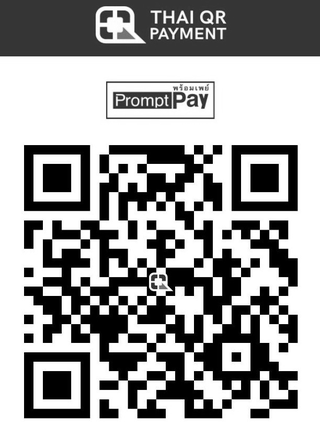
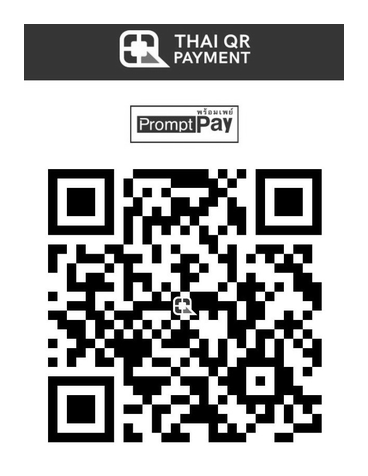
feat(ui): modernize PC interface and display rounded donate QR image

diff --git a/clipora/ui.py b/clipora/ui.py
@@ -57,15 +57,15 @@ from .ytdlp_update import (
 )
 
 
-BG = '#090d15'
-CARD = '#141a26'
-FIELD = '#0d1320'
-BORDER = '#293348'
-TEXT = '#f7f8fc'
-MUTED = '#96a3b8'
-ACCENT = '#7c5cff'
-ACCENT_HOVER = '#6c4df0'
-DANGER = '#e35d6a'
+BG = '#0c0f16'
+CARD = '#151a24'
+FIELD = '#0e1220'
+BORDER = '#2a3145'
+TEXT = '#f3f5fb'
+MUTED = '#9aa6bd'
+ACCENT = '#8b5cf6'
+ACCENT_HOVER = '#7c4df0'
+DANGER = '#ef5350'
 
 AUDIO_FORMAT_LABELS = ('MP3', 'M4A', 'WAV', 'FLAC', 'OPUS')
 AUDIO_FORMAT_VALUES = {'MP3': 'mp3', 'M4A': 'm4a', 'WAV': 'wav', 'FLAC': 'flac', 'OPUS': 'opus'}
@@ -97,6 +97,31 @@ def destination_path(value: str) -> Path:
     return Path(text)
 
 
+def fit_photo_image(image: tk.PhotoImage, max_width: int, max_height: int) -> tk.PhotoImage:
+    """Scale a PhotoImage to fit inside a bounding box (stdlib only)."""
+    width, height = image.width(), image.height()
+    if width <= max_width and height <= max_height:
+        return image
+    best: tuple[int, int, int, int] | None = None
+    for zoom in range(1, 9):
+        for subsample in range(1, 9):
+            scaled_width = width * zoom // subsample
+            scaled_height = height * zoom // subsample
+            if scaled_width <= max_width and scaled_height <= max_height:
+                if best is None or (scaled_width * scaled_height) > (best[0] * best[1]):
+                    best = (scaled_width, scaled_height, zoom, subsample)
+    if best is None:
+        return image.subsample(max(1, width // max_width), max(1, height // max_height))
+    _scaled_width, _scaled_height, zoom, subsample = best
+    if zoom > 1 and subsample > 1:
+        return image.zoom(zoom).subsample(subsample)
+    if zoom > 1:
+        return image.zoom(zoom)
+    if subsample > 1:
+        return image.subsample(subsample)
+    return image
+
+
 def source_summary(path_value: str) -> str:
     if not path_value.strip():
         return 'ยังไม่ได้เลือกไฟล์'
@@ -113,8 +138,8 @@ class CliporaApp(tk.Tk):
     def __init__(self) -> None:
         super().__init__()
         self.title('Clipora')
-        self.geometry('900x700')
-        self.minsize(660, 480)
+        self.geometry('940x720')
+        self.minsize(680, 480)
         self.configure(bg=BG)
         self._first_run_setup = bool(missing_required_tools())
         if self._first_run_setup:
@@ -162,14 +187,14 @@ class CliporaApp(tk.Tk):
         self.protocol('WM_DELETE_WINDOW', self._on_close)
 
     def _create_icon(self) -> tk.PhotoImage:
-        image = tk.PhotoImage(width=32, height=32)
-        image.put(BG, to=(0, 0, 32, 32))
-        for y in range(4, 28):
-            inset = 2 if y in (4, 5, 26, 27) else 0
-            image.put(ACCENT, to=(4 + inset, y, 28 - inset, y + 1))
-        for y in range(10, 23):
-            width = min(y - 9, 23 - y)
-            image.put(TEXT, to=(12, y, 12 + width, y + 1))
+        image = tk.PhotoImage(width=36, height=36)
+        image.put(BG, to=(0, 0, 36, 36))
+        for y in range(5, 31):
+            inset = 2 if y in (5, 6, 29, 30) else 0
+            image.put(ACCENT, to=(5 + inset, y, 31 - inset, y + 1))
+        for y in range(11, 25):
+            width = min(y - 10, 25 - y)
+            image.put(TEXT, to=(14, y, 14 + width, y + 1))
         return image
 
     def _build(self) -> None:
@@ -182,50 +207,50 @@ class CliporaApp(tk.Tk):
 
         style.configure('TFrame', background=BG)
         style.configure('Card.TFrame', background=CARD)
-        style.configure('Action.TFrame', background='#111827', borderwidth=1, relief='solid')
+        style.configure('Action.TFrame', background='#10141f', borderwidth=1, relief='solid')
         style.configure('TLabel', background=BG, foreground=TEXT, font=(self.ui_font, 10))
         style.configure('Card.TLabel', background=CARD, foreground=TEXT, font=(self.ui_font, 10))
-        style.configure('Heading.TLabel', background=BG, foreground=TEXT, font=('Segoe UI Semibold', 28))
+        style.configure('Heading.TLabel', background=BG, foreground=TEXT, font=('Segoe UI Semibold', 26))
         style.configure('Muted.TLabel', background=BG, foreground=MUTED, font=(self.ui_font, 10))
         style.configure('CardMuted.TLabel', background=CARD, foreground=MUTED, font=(self.ui_font, 9))
         style.configure('Section.TLabel', background=CARD, foreground=TEXT, font=(self.ui_font, 10, 'bold'))
         style.configure(
             'Step.TLabel',
             background=CARD,
-            foreground='#b8aaff',
+            foreground='#c4b5fd',
             font=(self.ui_font, 10, 'bold'),
         )
         style.configure(
             'Pill.TLabel',
-            background='#1d1838',
-            foreground='#c8bcff',
+            background='#1e1b33',
+            foreground='#c4b5fd',
             font=(self.ui_font, 8, 'bold'),
             padding=(10, 5),
         )
         style.configure(
             'Header.TButton',
-            background='#1d1838',
-            foreground='#c8bcff',
-            bordercolor='#302758',
-            lightcolor='#302758',
-            darkcolor='#302758',
+            background='#1a2030',
+            foreground='#c8cfe0',
+            bordercolor=BORDER,
+            lightcolor=BORDER,
+            darkcolor=BORDER,
             font=(self.ui_font, 8, 'bold'),
-            padding=(10, 5),
+            padding=(12, 6),
         )
         style.map(
             'Header.TButton',
-            background=[('active', '#2a2250')],
+            background=[('active', '#242c42')],
             foreground=[('active', TEXT)],
         )
         style.configure(
             'Action.TLabel',
-            background='#111827',
+            background='#10141f',
             foreground=TEXT,
             font=(self.ui_font, 10, 'bold'),
         )
         style.configure(
             'ActionMuted.TLabel',
-            background='#111827',
+            background='#10141f',
             foreground=MUTED,
             font=(self.ui_font, 9),
         )
@@ -254,17 +279,17 @@ class CliporaApp(tk.Tk):
         )
         style.configure(
             'Secondary.TButton',
-            background='#232c3b',
+            background='#1c2434',
             foreground=TEXT,
-            bordercolor=BORDER,
-            lightcolor=BORDER,
-            darkcolor=BORDER,
+            bordercolor='#313a52',
+            lightcolor='#313a52',
+            darkcolor='#313a52',
             font=(self.ui_font, 10, 'bold'),
             padding=(14, 9),
         )
         style.map(
             'Secondary.TButton',
-            background=[('active', '#303b4f'), ('disabled', CARD)],
+            background=[('active', '#28324a'), ('disabled', CARD)],
             foreground=[('disabled', '#626d7f')],
             bordercolor=[('focus', ACCENT)],
         )
@@ -335,7 +360,7 @@ class CliporaApp(tk.Tk):
         )
         style.map(
             'Segment.TRadiobutton',
-            background=[('selected', ACCENT), ('active', '#222b3c'), ('disabled', CARD)],
+            background=[('selected', ACCENT), ('active', '#202a3e'), ('disabled', CARD)],
             foreground=[('selected', TEXT), ('active', TEXT), ('disabled', '#626d7f')],
         )
         style.configure(
@@ -355,12 +380,12 @@ class CliporaApp(tk.Tk):
         style.configure(
             'Dark.TCombobox',
             fieldbackground=FIELD,
-            background='#232c3b',
+            background='#1c2434',
             foreground=TEXT,
             arrowcolor=TEXT,
-            bordercolor=BORDER,
-            lightcolor=BORDER,
-            darkcolor=BORDER,
+            bordercolor='#313a52',
+            lightcolor='#313a52',
+            darkcolor='#313a52',
             padding=(10, 7),
         )
         style.map(
@@ -373,8 +398,8 @@ class CliporaApp(tk.Tk):
         style.configure(
             'Clipora.Horizontal.TProgressbar',
             background=ACCENT,
-            troughcolor='#202838',
-            bordercolor='#202838',
+            troughcolor='#1d2434',
+            bordercolor='#1d2434',
             lightcolor=ACCENT,
             darkcolor=ACCENT,
             thickness=11,
@@ -396,13 +421,6 @@ class CliporaApp(tk.Tk):
             text='แปลงวิดีโอ 360p–4K, แยกเสียง และ ProRes สำหรับ After Effects — บนเครื่องของคุณ',
             style='Muted.TLabel',
         ).grid(row=1, column=1, sticky='w')
-        ttk.Label(header, text='สร้างโดย ertyu.dev', style='Pill.TLabel').grid(
-            row=0,
-            column=2,
-            rowspan=2,
-            padx=(0, 10),
-            sticky='e',
-        )
         ttk.Button(
             header,
             text='เครื่องมือ',
@@ -410,7 +428,7 @@ class CliporaApp(tk.Tk):
             command=lambda: self._open_tool_setup(repair_mode=True),
         ).grid(
             row=0,
-            column=3,
+            column=2,
             rowspan=2,
             sticky='e',
         )
@@ -421,7 +439,7 @@ class CliporaApp(tk.Tk):
             command=lambda: self._check_ytdlp_update(auto=False),
         ).grid(
             row=0,
-            column=4,
+            column=3,
             rowspan=2,
             padx=(8, 0),
             sticky='e',
@@ -433,9 +451,16 @@ class CliporaApp(tk.Tk):
             command=self._open_donate_dialog,
         ).grid(
             row=0,
-            column=5,
+            column=4,
             rowspan=2,
             padx=(8, 0),
+            sticky='e',
+        )
+        ttk.Label(header, text='สร้างโดย ertyu.dev', style='Pill.TLabel').grid(
+            row=0,
+            column=5,
+            rowspan=2,
+            padx=(14, 0),
             sticky='e',
         )
 
@@ -1616,8 +1641,8 @@ class DonateDialog(tk.Toplevel):
     def __init__(self, parent: tk.Misc) -> None:
         super().__init__(parent)
         self.title('โดเนท')
-        self.geometry('440x680')
-        self.minsize(400, 560)
+        self.geometry('460x700')
+        self.minsize(420, 620)
         self.configure(bg=BG)
         self.transient(parent)
         self.resizable(True, True)
@@ -1634,19 +1659,23 @@ class DonateDialog(tk.Toplevel):
             shell,
             text=DONATE_BODY,
             style='Muted.TLabel',
-            wraplength=360,
+            wraplength=380,
         ).grid(row=1, column=0, sticky='w', pady=(2, 16))
 
         image_path = donate_image_path()
         if image_path is not None:
             try:
-                image = tk.PhotoImage(file=str(image_path))
+                raw = tk.PhotoImage(file=str(image_path))
+                image = fit_photo_image(raw, 360, 420)
             except tk.TclError:
                 image = None
             if image is not None:
-                label = ttk.Label(shell, image=image, style='Card.TLabel')
+                frame = ttk.Frame(shell, style='Card.TFrame')
+                frame.grid(row=2, column=0, sticky='ew', pady=(0, 16))
+                frame.columnconfigure(0, weight=1)
+                label = ttk.Label(frame, image=image, style='Card.TLabel')
                 label.image = image
-                label.grid(row=2, column=0, sticky='ew', pady=(0, 16))
+                label.grid(row=0, column=0)
             else:
                 ttk.Label(
                     shell,
@@ -1664,7 +1693,7 @@ class DonateDialog(tk.Toplevel):
             shell,
             text=DONATE_NOTE,
             style='CardMuted.TLabel',
-            wraplength=360,
+            wraplength=380,
         ).grid(row=3, column=0, sticky='w')
         ttk.Button(
             shell,

diff --git a/scripts/prepare_donate_qr.py b/scripts/prepare_donate_qr.py
@@ -1,0 +1,52 @@
+from __future__ import annotations
+
+import argparse
+import sys
+from pathlib import Path
+
+from PIL import Image, ImageDraw
+
+
+def prepare_donate_qr(source: Path, destination: Path, padding: int = 24, radius: int = 28) -> Path:
+    """Wrap a raw QR into a rounded white card with transparent corners.
+
+    Raw PromptPay QRs usually fill the whole canvas with no quiet zone, so we
+    add a white margin around the QR (needed for scanning) and round the outer
+    corners with a transparent mask so the QR blends into the app's dark card.
+    """
+    qr = Image.open(source).convert('L')
+    width, height = qr.size
+    padded = Image.new('L', (width + 2 * padding, height + 2 * padding), 255)
+    padded.paste(qr, (padding, padding))
+
+    size = padded.size
+    rgba = padded.convert('RGBA')
+    mask = Image.new('L', size, 0)
+    draw = ImageDraw.Draw(mask)
+    draw.rounded_rectangle([0, 0, size[0] - 1, size[1] - 1], radius=radius, fill=255)
+
+    output = Image.new('RGBA', size, (255, 255, 255, 0))
+    output.paste(rgba, (0, 0), mask)
+    output.save(destination)
+    return destination
+
+
+def main() -> int:
+    parser = argparse.ArgumentParser(description='Prepare donate QR as a rounded card PNG')
+    parser.add_argument('source', type=Path, help='raw QR image')
+    parser.add_argument('destination', type=Path, help='output PNG')
+    parser.add_argument('--padding', type=int, default=24, help='white margin around QR')
+    parser.add_argument('--radius', type=int, default=28, help='corner radius in pixels')
+    args = parser.parse_args()
+
+    if not args.source.is_file():
+        print(f'source not found: {args.source}', file=sys.stderr)
+        return 1
+    args.destination.parent.mkdir(parents=True, exist_ok=True)
+    output = prepare_donate_qr(args.source, args.destination, args.padding, args.radius)
+    print(f'wrote {output}')
+    return 0
+
+
+if __name__ == '__main__':
+    raise SystemExit(main())
